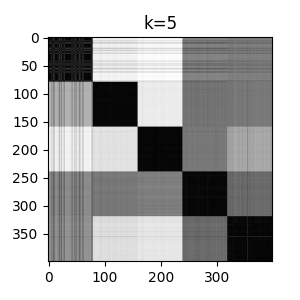
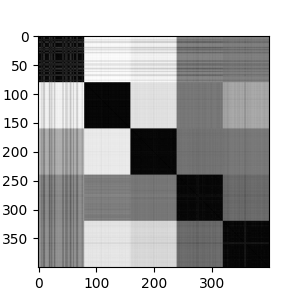
publish: revised images for covid seq clustering

Changed region(s): [[0.0, 0.06, 0.93, 0.96]]

diff --git a/docs/projects/covid-seq-clustering.html b/docs/projects/covid-seq-clustering.html
@@ -293,14 +293,14 @@ Figure&nbsp;1: Visualization of MSA sequences before and after cleaning, showing
 <p>Next I plotted a histogram of the entropy values to visualize the random mutations versus the major strain mutations. We can see below the distribution is multimodal. I put a cutoff threshold at 0.145, which is at the right tail of the random mutation distribution. This cutoff will be used to filter out positions that are not conserved across major strains. Future work could look at fitting a mixture model to the entropy distribution to find the optimal cutoff.</p>
 <div class="quarto-figure quarto-figure-center">
 <figure class="figure">
-<p><a href="../images/projects/csc/entropy.png" class="lightbox" data-gallery="quarto-lightbox-gallery-4" title="Histogram of the entropy per MSA position. The left mode is random mutations and the other modes are mutations of major strains."><img src="../images/projects/csc/entropy.png" class="img-fluid figure-img" data-max-width="params.img_max_width" alt="Histogram of the entropy per MSA position. The left mode is random mutations and the other modes are mutations of major strains."></a></p>
+<p><a href="../images/projects/csc/entropy_hist.png" class="lightbox" data-gallery="quarto-lightbox-gallery-4" title="Histogram of the entropy per MSA position. The left mode is random mutations and the other modes are mutations of major strains."><img src="../images/projects/csc/entropy_hist.png" class="img-fluid figure-img" data-max-width="params.img_max_width" alt="Histogram of the entropy per MSA position. The left mode is random mutations and the other modes are mutations of major strains."></a></p>
 <figcaption>Histogram of the entropy per MSA position. The left mode is random mutations and the other modes are mutations of major strains.</figcaption>
 </figure>
 </div>
 <p>After trimming the MSA to remove low entropy positions, I was left with a 400 x 110 array. This is a good size for clustering, as it is a good balance between having enough data to find clusters and not having too much data to be computationally expensive.</p>
 <div class="quarto-figure quarto-figure-center">
 <figure class="figure">
-<p><a href="../images/projects/csc/sequences_trim.png" class="lightbox" data-gallery="quarto-lightbox-gallery-5" title="Visualization of MSA sequences after trimming. Color scale based on A (lightest), C, G, T (darkest)."><img src="../images/projects/csc/sequences_trim.png" class="img-fluid figure-img" style="width:25.0%" data-max-width="150px" alt="Visualization of MSA sequences after trimming. Color scale based on A (lightest), C, G, T (darkest)."></a></p>
+<p><a href="../images/projects/csc/sequences_trim.png" class="lightbox" data-gallery="quarto-lightbox-gallery-5" title="Visualization of MSA sequences after trimming. Color scale based on A (lightest), C, G, T (darkest)."><img src="../images/projects/csc/sequences_trim.png" height="400" alt="Visualization of MSA sequences after trimming. Color scale based on A (lightest), C, G, T (darkest)." class="figure-img"></a></p>
 <figcaption>Visualization of MSA sequences after trimming. Color scale based on A (lightest), C, G, T (darkest).</figcaption>
 </figure>
 </div>
@@ -320,7 +320,7 @@ Figure&nbsp;1: Visualization of MSA sequences before and after cleaning, showing
 <section id="spectral-clustering" class="level4">
 <h4 class="anchored" data-anchor-id="spectral-clustering">Spectral Clustering</h4>
 <p>For spectral clustering I will first convert the adjacency matrix into a Laplacian matrix, which allows use to have at least one eigenvalue equal to zero.</p>
-<p>I tried both the standard Laplacian, <span class="math inline">\(L = D - A\)</span>, and the normalized Laplacian, <span class="math inline">\(L = D^{-/frac{1}{2}} /cdot A /cdot D^{-/frac{1}{2}}\)</span>. Here <span class="math inline">\(D\)</span> is the distance matrix which is a diagonal matrix that sums the weights of the adjacency matrix. I found the standard Laplacian worked better for this application.</p>
+<p>I tried both the standard Laplacian, <span class="math inline">\(L = D - A\)</span>, and the normalized Laplacian, <span class="math inline">\(L = D^{-\frac{1}{2}} \cdot A \cdot D^{-\frac{1}{2}}\)</span>. Here <span class="math inline">\(D\)</span> is the distance matrix which is a diagonal matrix that sums the weights of the adjacency matrix. I found the standard Laplacian worked better for this application.</p>
 <p>For clustering, I used classic <span class="math inline">\(k\)</span>-means. I validated the choice of <span class="math inline">\(k\)</span> with visualizations of the elbow diagram, adjacency matrix, MSA sequences, and eigenvectors.</p>
 </section>
 <section id="clustering-with-isomap" class="level4">
@@ -436,10 +436,10 @@ Figure&nbsp;3: Adjacency matrix after spectral clustering for <span class="math 
 <div aria-describedby="fig-spec-seq-caption-0ceaefa1-69ba-4598-a22c-09a6ac19f8ca">
 <div class="quarto-layout-row">
 <div class="quarto-layout-cell-subref quarto-layout-cell" data-ref-parent="fig-spec-seq" style="flex-basis: 25.0%;justify-content: flex-start;">
-<div id="fig-adj1" class="lightbox quarto-float quarto-figure quarto-figure-center anchored" data-max-with="150px">
+<div id="fig-adj1" class="lightbox quarto-float quarto-figure quarto-figure-center anchored">
 <figure class="quarto-float quarto-subfloat-fig figure">
 <div aria-describedby="fig-adj1-caption-0ceaefa1-69ba-4598-a22c-09a6ac19f8ca">
-<a href="../images/projects/csc/sequences_sorted_1.png" class="lightbox" data-gallery="fig-spec-seq" title="Figure&nbsp;4&nbsp;(a): k=1"><img src="../images/projects/csc/sequences_sorted_1.png" class="img-fluid figure-img" data-max-with="150px" data-ref-parent="fig-spec-seq"></a>
+<a href="../images/projects/csc/sequences_sorted_1.png" class="lightbox" data-gallery="fig-spec-seq" title="Figure&nbsp;4&nbsp;(a): k=1"><img src="../images/projects/csc/sequences_sorted_1.png" data-ref-parent="fig-spec-seq" height="400" class="figure-img"></a>
 </div>
 <figcaption class="quarto-float-caption-bottom quarto-subfloat-caption quarto-subfloat-fig" id="fig-adj1-caption-0ceaefa1-69ba-4598-a22c-09a6ac19f8ca">
 (a) <span class="math inline">\(k\)</span>=1
@@ -448,10 +448,10 @@ Figure&nbsp;3: Adjacency matrix after spectral clustering for <span class="math 
 </div>
 </div>
 <div class="quarto-layout-cell-subref quarto-layout-cell" data-ref-parent="fig-spec-seq" style="flex-basis: 25.0%;justify-content: flex-start;">
-<div id="fig-adj5" class="lightbox quarto-float quarto-figure quarto-figure-center anchored" data-max-with="150px">
+<div id="fig-adj5" class="lightbox quarto-float quarto-figure quarto-figure-center anchored">
 <figure class="quarto-float quarto-subfloat-fig figure">
 <div aria-describedby="fig-adj5-caption-0ceaefa1-69ba-4598-a22c-09a6ac19f8ca">
-<a href="../images/projects/csc/sequences_sorted_5.png" class="lightbox" data-gallery="fig-spec-seq" title="Figure&nbsp;4&nbsp;(b): k=5"><img src="../images/projects/csc/sequences_sorted_5.png" class="img-fluid figure-img" data-max-with="150px" data-ref-parent="fig-spec-seq"></a>
+<a href="../images/projects/csc/sequences_sorted_5.png" class="lightbox" data-gallery="fig-spec-seq" title="Figure&nbsp;4&nbsp;(b): k=5"><img src="../images/projects/csc/sequences_sorted_5.png" data-ref-parent="fig-spec-seq" height="400" class="figure-img"></a>
 </div>
 <figcaption class="quarto-float-caption-bottom quarto-subfloat-caption quarto-subfloat-fig" id="fig-adj5-caption-0ceaefa1-69ba-4598-a22c-09a6ac19f8ca">
 (b) <span class="math inline">\(k\)</span>=5
@@ -460,10 +460,10 @@ Figure&nbsp;3: Adjacency matrix after spectral clustering for <span class="math 
 </div>
 </div>
 <div class="quarto-layout-cell-subref quarto-layout-cell" data-ref-parent="fig-spec-seq" style="flex-basis: 25.0%;justify-content: flex-start;">
-<div id="fig-adj7" class="lightbox quarto-float quarto-figure quarto-figure-center anchored" data-max-with="150px">
+<div id="fig-adj7" class="lightbox quarto-float quarto-figure quarto-figure-center anchored">
 <figure class="quarto-float quarto-subfloat-fig figure">
 <div aria-describedby="fig-adj7-caption-0ceaefa1-69ba-4598-a22c-09a6ac19f8ca">
-<a href="../images/projects/csc/sequences_sorted_7.png" class="lightbox" data-gallery="fig-spec-seq" title="Figure&nbsp;4&nbsp;(c): k=7"><img src="../images/projects/csc/sequences_sorted_7.png" class="img-fluid figure-img" data-max-with="150px" data-ref-parent="fig-spec-seq"></a>
+<a href="../images/projects/csc/sequences_sorted_7.png" class="lightbox" data-gallery="fig-spec-seq" title="Figure&nbsp;4&nbsp;(c): k=7"><img src="../images/projects/csc/sequences_sorted_7.png" data-ref-parent="fig-spec-seq" height="400" class="figure-img"></a>
 </div>
 <figcaption class="quarto-float-caption-bottom quarto-subfloat-caption quarto-subfloat-fig" id="fig-adj7-caption-0ceaefa1-69ba-4598-a22c-09a6ac19f8ca">
 (c) <span class="math inline">\(k\)</span>=7
@@ -472,10 +472,10 @@ Figure&nbsp;3: Adjacency matrix after spectral clustering for <span class="math 
 </div>
 </div>
 <div class="quarto-layout-cell-subref quarto-layout-cell" data-ref-parent="fig-spec-seq" style="flex-basis: 25.0%;justify-content: flex-start;">
-<div id="fig-adj9" class="lightbox quarto-float quarto-figure quarto-figure-center anchored" data-max-with="150px">
+<div id="fig-adj9" class="lightbox quarto-float quarto-figure quarto-figure-center anchored">
 <figure class="quarto-float quarto-subfloat-fig figure">
 <div aria-describedby="fig-adj9-caption-0ceaefa1-69ba-4598-a22c-09a6ac19f8ca">
-<a href="../images/projects/csc/sequences_sorted_9.png" class="lightbox" data-gallery="fig-spec-seq" title="Figure&nbsp;4&nbsp;(d): k=9"><img src="../images/projects/csc/sequences_sorted_9.png" class="img-fluid figure-img" data-max-with="150px" data-ref-parent="fig-spec-seq"></a>
+<a href="../images/projects/csc/sequences_sorted_9.png" class="lightbox" data-gallery="fig-spec-seq" title="Figure&nbsp;4&nbsp;(d): k=9"><img src="../images/projects/csc/sequences_sorted_9.png" data-ref-parent="fig-spec-seq" height="400" class="figure-img"></a>
 </div>
 <figcaption class="quarto-float-caption-bottom quarto-subfloat-caption quarto-subfloat-fig" id="fig-adj9-caption-0ceaefa1-69ba-4598-a22c-09a6ac19f8ca">
 (d) <span class="math inline">\(k\)</span>=9
@@ -595,10 +595,10 @@ Figure&nbsp;6: Geodesic distance matrix after ISOMAP for <span class="math inlin
 <div aria-describedby="fig-iso-seq-caption-0ceaefa1-69ba-4598-a22c-09a6ac19f8ca">
 <div class="quarto-layout-row">
 <div class="quarto-layout-cell-subref quarto-layout-cell" data-ref-parent="fig-iso-seq" style="flex-basis: 25.0%;justify-content: flex-start;">
-<div id="fig-adj1" class="lightbox quarto-float quarto-figure quarto-figure-center anchored" data-max-with="150px">
+<div id="fig-adj1" class="lightbox quarto-float quarto-figure quarto-figure-center anchored">
 <figure class="quarto-float quarto-subfloat-fig figure">
 <div aria-describedby="fig-adj1-caption-0ceaefa1-69ba-4598-a22c-09a6ac19f8ca">
-<a href="../images/projects/csc/sequences_sorted_iso_1.png" class="lightbox" data-gallery="fig-iso-seq" title="Figure&nbsp;7&nbsp;(a): k=1"><img src="../images/projects/csc/sequences_sorted_iso_1.png" class="img-fluid figure-img" data-max-with="150px" data-ref-parent="fig-iso-seq"></a>
+<a href="../images/projects/csc/sequences_sorted_iso_1.png" class="lightbox" data-gallery="fig-iso-seq" title="Figure&nbsp;7&nbsp;(a): k=1"><img src="../images/projects/csc/sequences_sorted_iso_1.png" data-ref-parent="fig-iso-seq" height="400" class="figure-img"></a>
 </div>
 <figcaption class="quarto-float-caption-bottom quarto-subfloat-caption quarto-subfloat-fig" id="fig-adj1-caption-0ceaefa1-69ba-4598-a22c-09a6ac19f8ca">
 (a) <span class="math inline">\(k\)</span>=1
@@ -607,10 +607,10 @@ Figure&nbsp;6: Geodesic distance matrix after ISOMAP for <span class="math inlin
 </div>
 </div>
 <div class="quarto-layout-cell-subref quarto-layout-cell" data-ref-parent="fig-iso-seq" style="flex-basis: 25.0%;justify-content: flex-start;">
-<div id="fig-adj5" class="lightbox quarto-float quarto-figure quarto-figure-center anchored" data-max-with="150px">
+<div id="fig-adj5" class="lightbox quarto-float quarto-figure quarto-figure-center anchored">
 <figure class="quarto-float quarto-subfloat-fig figure">
 <div aria-describedby="fig-adj5-caption-0ceaefa1-69ba-4598-a22c-09a6ac19f8ca">
-<a href="../images/projects/csc/sequences_sorted_iso_5.png" class="lightbox" data-gallery="fig-iso-seq" title="Figure&nbsp;7&nbsp;(b): k=5"><img src="../images/projects/csc/sequences_sorted_iso_5.png" class="img-fluid figure-img" data-max-with="150px" data-ref-parent="fig-iso-seq"></a>
+<a href="../images/projects/csc/sequences_sorted_iso_5.png" class="lightbox" data-gallery="fig-iso-seq" title="Figure&nbsp;7&nbsp;(b): k=5"><img src="../images/projects/csc/sequences_sorted_iso_5.png" data-ref-parent="fig-iso-seq" height="400" class="figure-img"></a>
 </div>
 <figcaption class="quarto-float-caption-bottom quarto-subfloat-caption quarto-subfloat-fig" id="fig-adj5-caption-0ceaefa1-69ba-4598-a22c-09a6ac19f8ca">
 (b) <span class="math inline">\(k\)</span>=5
@@ -619,10 +619,10 @@ Figure&nbsp;6: Geodesic distance matrix after ISOMAP for <span class="math inlin
 </div>
 </div>
 <div class="quarto-layout-cell-subref quarto-layout-cell" data-ref-parent="fig-iso-seq" style="flex-basis: 25.0%;justify-content: flex-start;">
-<div id="fig-adj7" class="lightbox quarto-float quarto-figure quarto-figure-center anchored" data-max-with="150px">
+<div id="fig-adj7" class="lightbox quarto-float quarto-figure quarto-figure-center anchored">
 <figure class="quarto-float quarto-subfloat-fig figure">
 <div aria-describedby="fig-adj7-caption-0ceaefa1-69ba-4598-a22c-09a6ac19f8ca">
-<a href="../images/projects/csc/sequences_sorted_iso_7.png" class="lightbox" data-gallery="fig-iso-seq" title="Figure&nbsp;7&nbsp;(c): k=7"><img src="../images/projects/csc/sequences_sorted_iso_7.png" class="img-fluid figure-img" data-max-with="150px" data-ref-parent="fig-iso-seq"></a>
+<a href="../images/projects/csc/sequences_sorted_iso_7.png" class="lightbox" data-gallery="fig-iso-seq" title="Figure&nbsp;7&nbsp;(c): k=7"><img src="../images/projects/csc/sequences_sorted_iso_7.png" data-ref-parent="fig-iso-seq" height="400" class="figure-img"></a>
 </div>
 <figcaption class="quarto-float-caption-bottom quarto-subfloat-caption quarto-subfloat-fig" id="fig-adj7-caption-0ceaefa1-69ba-4598-a22c-09a6ac19f8ca">
 (c) <span class="math inline">\(k\)</span>=7
@@ -631,10 +631,10 @@ Figure&nbsp;6: Geodesic distance matrix after ISOMAP for <span class="math inlin
 </div>
 </div>
 <div class="quarto-layout-cell-subref quarto-layout-cell" data-ref-parent="fig-iso-seq" style="flex-basis: 25.0%;justify-content: flex-start;">
-<div id="fig-adj9" class="lightbox quarto-float quarto-figure quarto-figure-center anchored" data-max-with="150px">
+<div id="fig-adj9" class="lightbox quarto-float quarto-figure quarto-figure-center anchored">
 <figure class="quarto-float quarto-subfloat-fig figure">
 <div aria-describedby="fig-adj9-caption-0ceaefa1-69ba-4598-a22c-09a6ac19f8ca">
-<a href="../images/projects/csc/sequences_sorted_iso_9.png" class="lightbox" data-gallery="fig-iso-seq" title="Figure&nbsp;7&nbsp;(d): k=9"><img src="../images/projects/csc/sequences_sorted_iso_9.png" class="img-fluid figure-img" data-max-with="150px" data-ref-parent="fig-iso-seq"></a>
+<a href="../images/projects/csc/sequences_sorted_iso_9.png" class="lightbox" data-gallery="fig-iso-seq" title="Figure&nbsp;7&nbsp;(d): k=9"><img src="../images/projects/csc/sequences_sorted_iso_9.png" data-ref-parent="fig-iso-seq" height="400" class="figure-img"></a>
 </div>
 <figcaption class="quarto-float-caption-bottom quarto-subfloat-caption quarto-subfloat-fig" id="fig-adj9-caption-0ceaefa1-69ba-4598-a22c-09a6ac19f8ca">
 (d) <span class="math inline">\(k\)</span>=9
@@ -1100,7 +1100,7 @@ window.document.addEventListener("DOMContentLoaded", function (event) {
 });
 </script>
 </a></div><a href="https://creativecommons.org/licenses/by-nc-nd/4.0/" target="_blank"> <!-- /content -->
-<script>var lightboxQuarto = GLightbox({"closeEffect":"zoom","selector":".lightbox","loop":false,"descPosition":"bottom","openEffect":"zoom"});
+<script>var lightboxQuarto = GLightbox({"closeEffect":"zoom","openEffect":"zoom","selector":".lightbox","loop":false,"descPosition":"bottom"});
 (function() {
   let previousOnload = window.onload;
   window.onload = () => {

diff --git a/docs/projects/protein-engineering.html b/docs/projects/protein-engineering.html
@@ -715,7 +715,7 @@ window.document.addEventListener("DOMContentLoaded", function (event) {
 });
 </script>
 </a></div><a href="https://creativecommons.org/licenses/by-nc-nd/4.0/" target="_blank"> <!-- /content -->
-<script>var lightboxQuarto = GLightbox({"closeEffect":"zoom","loop":false,"selector":".lightbox","descPosition":"bottom","openEffect":"zoom"});
+<script>var lightboxQuarto = GLightbox({"descPosition":"bottom","closeEffect":"zoom","selector":".lightbox","loop":false,"openEffect":"zoom"});
 (function() {
   let previousOnload = window.onload;
   window.onload = () => {
